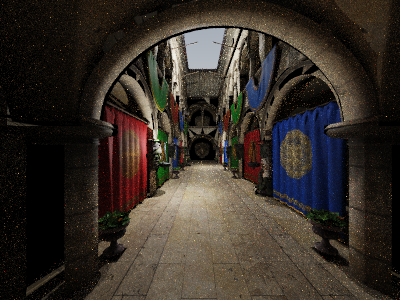
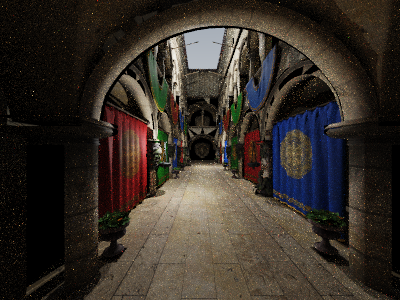
Tiled render loop

diff --git a/Silmaril/src/Silmaril/Integrators/RandomWalkIntegrator.cpp b/Silmaril/src/Silmaril/Integrators/RandomWalkIntegrator.cpp
@@ -7,6 +7,8 @@
 #include "Silmaril/Materials/Material.hpp"
 #include "Silmaril/Materials/BSDF.hpp"
 
+#include "Silmaril/Core/Logger.hpp"
+
 namespace Silmaril {
 
     RandomWalkIntegrator::RandomWalkIntegrator(const std::shared_ptr<Camera>& camera, const std::shared_ptr<Sampler>& sampler, usize depth)
@@ -19,17 +21,44 @@ namespace Silmaril {
         u32 width = m_Camera->GetFilm().GetWidth();
         u32 height = m_Camera->GetFilm().GetHeight();
 
-        for (u32 y = 0; y < height; ++y) {
-            auto sampler = m_Sampler->Clone();
+        u32 tilesX = (width + s_TileSize - 1) / s_TileSize;
+        u32 tilesY = (height + s_TileSize - 1) / s_TileSize;
+        u32 totalTiles = tilesX * tilesY;
 
-            for (u32 x = 0; x < width; ++x) {
+        std::vector<Tile> tiles;
+        tiles.reserve(totalTiles);
+
+        for (u32 y = 0; y < tilesY; ++y) {
+            for (u32 x = 0; x < tilesX; ++x) {
+                u32 x0 = x * s_TileSize;
+                u32 y0 = y * s_TileSize;
+                u32 x1 = std::min(x0 + s_TileSize, width);
+                u32 y1 = std::min(y0 + s_TileSize, height);
+                tiles.push_back({ x0, y0, x1 - x0, y1 - y0 });
+            }
+        }
+
+        LOG_INFO("Rendering {} tiles ({}x{})", totalTiles, s_TileSize, s_TileSize);
+
+        for (const Tile& tile : tiles) {
+            RenderTile(tile, scene);
+        }
+
+        m_Camera->GetFilm().Write("Output.png");
+    }
+
+    void RandomWalkIntegrator::RenderTile(const Tile& tile, const Scene& scene)
+    {
+        auto sampler = m_Sampler->Clone();
+
+        for (u32 y = tile.y; y < tile.y + tile.h; ++y) {
+            for (u32 x = tile.x; x < tile.x + tile.w; ++x) {
                 sampler->StartPixel(x, y);
-                glm::vec3 accumulator(0.0f);
 
+                glm::vec3 accumulator(0.0f);
                 while (sampler->StartNextSample()) {
                     CameraSample cs;
-                    glm::vec2 offset = sampler->Get2D();
-                    cs.pFilm = glm::vec2(x, y) + offset;
+                    cs.pFilm = glm::vec2(x, y) + sampler->Get2D();
 
                     Ray ray = m_Camera->GenerateRay(cs);
 
@@ -40,10 +69,6 @@ namespace Silmaril {
                 m_Camera->GetFilm().SetPixel(x, y, accumulator);
             }
         }
-
-        auto loopEnd = std::chrono::high_resolution_clock::now();
-
-        m_Camera->GetFilm().Write("Output.png");
     }
 
     glm::vec3 RandomWalkIntegrator::Li(const Ray& ray, const Scene& scene, Sampler& sampler, usize depth)

diff --git a/Silmaril/src/Silmaril/Integrators/RandomWalkIntegrator.hpp b/Silmaril/src/Silmaril/Integrators/RandomWalkIntegrator.hpp
@@ -19,12 +19,24 @@ namespace Silmaril {
         virtual void Render(const Scene& scene) override;
 
     private:
+        struct Tile
+        {
+            u32 x;
+            u32 y;
+            u32 w;
+            u32 h;
+        };
+
+    private:
+        void RenderTile(const Tile& tile, const Scene& scene);
         glm::vec3 Li(const Ray& ray, const Scene& scene, Sampler& sampler, usize depth);
 
     private:
         std::shared_ptr<Camera> m_Camera;
         std::shared_ptr<Sampler> m_Sampler;
         usize m_MaxDepth { 1 };
+
+        inline static constexpr u32 s_TileSize { 16 };
     };
 
 }
